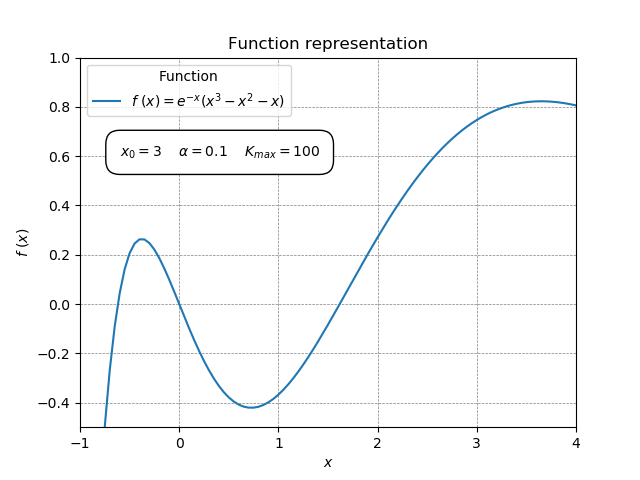
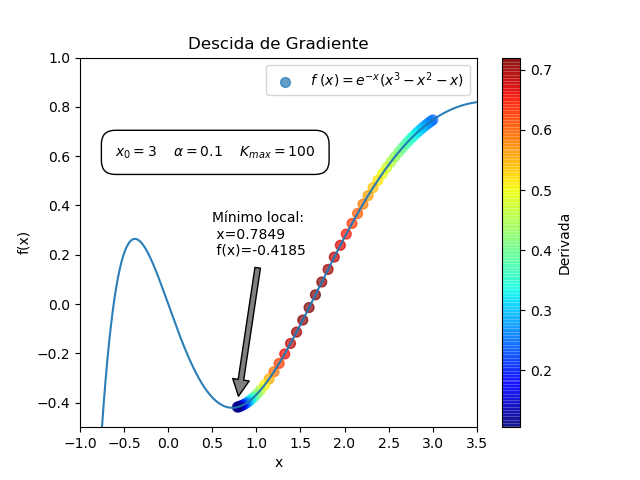
4a e 4b concluida

diff --git a/primeiro_versao wesley.py b/primeiro_versao wesley.py
@@ -1,0 +1,214 @@
+from traceback import print_list
+import numpy as np
+from src.problem.problem_interface import ProblemInterface
+from sympy import diff, Symbol, true
+from sympy import lambdify
+from sympy import sin, cos, exp
+import matplotlib.pyplot as plt
+import pandas as pd
+from numpy import arange
+from numpy import meshgrid
+from mpl_toolkits.mplot3d import Axes3D
+
+
+
+
+
+
+# import matplotlib.pyplot as plt
+import math
+
+
+
+class PrimeiroTrabalho(ProblemInterface):
+
+    def __init__(self, fname):
+        # load dataset
+        """self.filename = fname
+        with open(fname, "r") as f:
+            lines = f.readlines()
+
+        lines = [l.rstrip().rsplit() for l in lines]
+
+        # Convert the list of list into a numpy matrix of integers.
+        lines = np.array(lines).astype(np.int)
+        self.x = lines[:, :-1]
+        self.y = lines[:, -1:]"""
+        pass
+
+    def task1(self, x0, alfa, h):
+        xk = x0
+        for k in range(1):
+            fx = self.function_exercise(xk)
+            df = self.dfx(xk, h)
+            xk = xk + (alfa * -df)
+        return xk
+
+    def function_exercise(self, xk):
+        fx = np.exp(xk) * xk * ((xk ** 2) - xk - 1)
+        return fx
+
+    def dfx(self, x, h):
+        """ Aproximação da derivada pelo método de diferenças finitas """
+        df = (self.function_exercise(x + h) - self.function_exercise(x))/h
+        return df
+
+
+    def task2(self, x0, alfa):
+        x = Symbol('x')
+        f = exp(-x) * x * ((x ** 2) - x - 1)
+        difx = diff(f, x)
+        # Apresenta a função derivada
+        """Aqui já se trata da função derivada"""
+        # Converte de uma função simbólica para uma função numérica
+        lam_f = lambdify(x, difx)#AKI É O VETOR DE GRADIENTE
+        # UTILIZANDO A DERIVADA NA MÃO
+        # lam_f = lambdify(x, ((x**3)*exp(x)+2*(x**2)*exp(x)-3*x*exp(x)-exp(x)))
+        # Resolve a função para um dado valor de x
+        dfdx = lam_f(x0)
+        xk = x0 - (alfa * dfdx)  # x_(k+1) <-  xk - alfa * f'(xk)
+        return xk, dfdx
+
+
+    def task3(self, x0, alfa, gmin, kmax):
+        xk = x0
+        k = 0
+        novo=[]
+        dfdx=0
+        xk, dfdx = self.task2(xk, gmin)
+        xk=x0
+        while ((k < kmax) and (math.fabs(dfdx) > gmin)):
+            f = math.exp(-xk) * xk * ((xk ** 2) - xk - 1)
+            novo.append([dfdx,xk,f])
+            xk, dfdx = self.task2(xk, alfa)
+            k += 1
+        newnovo = pd.DataFrame(novo, index=None, columns=['Derivada:','X:','Y:'])
+        print(newnovo.to_string())
+        newnovo.plot(x ='X:', y='Y:',c='Derivada:', kind = 'scatter',cmap="jet", s=50,marker= 'o', label='Gradiente', alpha=0.7)
+        self.plot()
+        ###############################
+        plt.suptitle('Exercício 03', fontsize=14, fontweight='bold')
+        plt.title('Gradiente Decedente')
+        plt.xlabel('Movimentação do Gradiente no eixo X')
+        plt.ylabel('Eixo Y')
+        plt.text(-0.5, 0.6, 'Quanto maior o Valor da Derivada, maior é o passo.\n kmax = 100, porém foi até 49 pois \n o critério de gimin=0.1 ocorreu primeiro', style='italic',
+        bbox={'facecolor': 'white', 'edgecolor': 'k', 'boxstyle': 'round, pad=1'})
+        plt.text(-0.5, 0.8, r'$f ~ (x) = e^{-x} (x^3- x^2 - x)$', fontsize=12)
+        plt.annotate('ótimo local:\n X='+str(round(newnovo['X:'][49],4))+'\n Y='+str(round(newnovo['Y:'][49],4)), xy=(newnovo['X:'][49], -0.404), xytext=(0.5, 0.2),
+            arrowprops=dict(facecolor='black', shrink=0.05))
+        ###############################
+        plt.show()
+        print("========= AOS COLEGAS ==============")
+        print("Se colocar o Alpha(txa de aprendizado em 0.9 ele leva 6 passos para achar o melhor,\n mas como sabe qual alpha é o certo?")
+        print("====================================")
+        return print('O valor que minimiza a função f(x) é x=', newnovo['X:'][49])
+
+
+    def derivx1(self,x0,alfa):
+        x1 = Symbol('x1')
+        x2=Symbol('x2')
+        #Encontrando o valor de x1 e dx1
+        f = (4-2.1*x1**2+x1**(3/3))*x1**3+x1*x0#AKI EU COLOCO O X0 COMO VALOR PARA X2
+        dfdx1 = diff(f, x1)
+        lam_f = lambdify(x1, dfdx1)#AKI É O VETOR DE GRADIENTE
+        dfdx1 = lam_f(x0)
+        # x1k = x0 - (alfa * dfdx1)
+       #Encontrando o valor de x2 e dx2
+        f = x0*x2+(-4+4*x2**2)*x2**2#AKI EU COLOCO O X0 COMO VALOR PARA X1
+        dfdx2 = diff(f, x2)
+        lam_f = lambdify(x2, dfdx2)#AKI É O VETOR DE GRADIENTE
+        dfdx2 = lam_f(x0)
+        # x2k = x0 - (alfa * dfdx2)
+        grad=([dfdx1],[dfdx2])
+        print(grad)
+        print(np.dot(grad,-alfa),"aaki")
+        # print(x1k,"<<>>",dfdx1,"------",x2k,"<<>>",dfdx2)
+        pass
+
+
+    def derivx2(self):
+        x1 = Symbol('x1')
+        x2=Symbol('x2')
+        f = (4-2.1*x1**2+x1**(3/3))*x1**3+x1*x2+(-4+4*x2**2)*x2**2
+        return diff(f, x2)
+    def t1(self):
+        x1 = Symbol('x1')
+        x2=Symbol('x2')
+        f = (4-2.1*x1**2+x1**(3/3))*x1**3+x1*x2+(-4+4*x2**2)*x2**2
+        return diff(f, x1)
+    def t2(self):
+        x1 = Symbol('x1')
+        x2=Symbol('x2')
+        f = (4-2.1*x1**2+x1**(3/3))*x1**3+x1*x2+(-4+4*x2**2)*x2**2
+        return diff(f, x2)
+    
+    def task4_a(self,x0, alfa,gmin, kmax):
+        print("vetor do Gradiente de 2 dimensões função do trabalho:(4-2.1*x1**2+x1**3/3)*x1**3+x1*x2+(-4+4*x2**2)*x2**2")
+        # print([[self.derivx1()],[self.derivx2()]])
+        # ##Início da decida7
+        x1k = x0
+        x2k=x0
+        k = 0
+        derivada=[self.t1()],[self.t2()]
+        novo=[]
+        dfdx=0
+        while (k < kmax):
+          self.derivx1(1.2,alfa)
+      
+            # f = (4-2.1*x1k**2+x1k**(3/3))*x1k**3+x1k*x2k+(-4+4*x2k**2)*x2k**2
+            # novo.append([dfdx,x1k,x2k,f])
+            # x1k, dfdx = self.task2(x1k, alfa)
+
+
+          k += 1
+        # ##########FIM
+        self.graf3d()
+        return print('task4_a')
+
+    # (b) Use o gradiente explícito no algoritmo da descida de gradiente
+    def task4_b(self):
+        # TODO
+        return print('task4_b')
+
+    # (c) Desenhe a trajetória de x k no plano (x 1 , x 2 ),
+    # e o valor da função correspondente de f(x1 , x2) no gráfico 3-D.
+    def task4_c(self):
+        # TODO
+        return print('task4_c')
+
+    def plot(self):
+        y = []
+        xaxis = []
+        for x in np.arange(-4.0, 4.0, 0.01):
+            f = exp(-x) * x * ((x ** 2) - x - 1)
+            y.append(f)
+            xaxis.append(x)
+        plt.plot(xaxis, y,alpha=0.5)
+        plt.xlim(-1, 3.5)
+        plt.ylim(-0.5, 1)
+        # plt.show()
+        pass
+
+
+    def graf3d(self):
+        min, max = -1.0, 1.0
+        xaxis = arange(min, max, 0.01)
+        yaxis = arange(min, max, 0.01)
+        x1, x2 = meshgrid(xaxis, yaxis)
+        resul = (4-2.1*x1**2+x1**(3/3))*x1**3+x1*x2+(-4+4*x2**2)*x2**2
+        figure = plt.figure()
+        axis = figure.gca(projection='3d')
+        axis.plot_surface(x1, x2, resul, cmap='jet' ,linewidth=0, antialiased=False)
+        plt.suptitle('Exercício 0', fontsize=14, fontweight='bold')
+        plt.title('Gradiente Decedente Multivariado')
+        plt.xlabel('Eixo X1')
+        plt.ylabel('Eixo x2')
+        axis.set_zlabel('Eixo Y')
+        plt.contourf(x1, x2, resul, levels=50, cmap='jet',zdir="z", offset=-3)
+        plt.show()
+    pass
+
+    def plot_bestfit(self):
+        # TODO
+        pass
+

diff --git a/src/problem/primeiro_trabalho.py b/src/problem/primeiro_trabalho.py
@@ -11,7 +11,6 @@ from mpl_toolkits import mplot3d
 
 
 
-
 class PrimeiroTrabalho(ProblemInterface):
 
     def __init__(self, fname):
@@ -72,7 +71,7 @@ class PrimeiroTrabalho(ProblemInterface):
             xk, dfdx = self.task2(xk, alfa)
             k += 1
 
-        self.plot(database=novo)
+        #self.plot()
         self.plot_3(database=novo)
         min_pos = flist.index(min(flist))
         messenger = "Tarefa 3.a \nThe minimum value found for the function f(x) is y= %0.4f from x= %0.4f"
@@ -122,7 +121,12 @@ class PrimeiroTrabalho(ProblemInterface):
     # (c) Desenhe a trajetória de x k no plano (x 1 , x 2 ),
     # e o valor da função correspondente de f(x1 , x2) no gráfico 3-D.
     def task4_c(self):
-        # self.plot_question4()
+
+
+
+
+        #self.plot_question4()
+        self.graf3d()
         return print('task4_c')
 
     def plot_question4(self):
@@ -145,38 +149,67 @@ class PrimeiroTrabalho(ProblemInterface):
         plt.show()
         pass
 
-    def plot(self, database):
+    def plot(self):
         """Generate the points from the function"""
         y, xaxis = [], []
-        for x in np.arange(-10.0, 40.0, 0.05):
+
+        for x in np.arange(-4.0, 4.0, 0.01):
             f = exp(-x) * x * ((x ** 2) - x - 1)
             y.append(f)
             xaxis.append(x)
 
-        plt.subplots()
-        plt.plot(xaxis, y, label= r'$f ~ (x) = e^{-x} (x^3- x^2 - x)$')
-        plt.xlabel(r'$x$')
-        plt.ylabel(r'$f ~ (x)$')
-
-        plt.grid(True, color='gray', linestyle = '--', linewidth = 0.5)
-        plt.legend(title='Function')
-        plt.text(-0.6, 0.6,  r'$x_0 = 3$    $\alpha = 0.1$    $K_{max} = 100$',
-                 bbox={'facecolor': 'white', 'edgecolor': 'k', 'boxstyle': 'round, pad=1'})
-        plt.title('Function representation')
-
-        """ limit of x and y axis"""
-        plt.xlim(-1, 4)
+        plt.plot(xaxis, y, alpha=0.95)
+        plt.xlim(-1, 3.5)
         plt.ylim(-0.5, 1)
-
-        plt.savefig("Image/first_function.png")
-        plt.show()
-        plt.close()
         pass
 
     def plot_3(self, database):
-        newnovo = pd.DataFrame(database,index=None,columns=['Derivative','X','$f~(x)$'])
-        print(newnovo)
-        newnovo.plot(x ='X', y='$f~(x)$',c='Derivative', kind = 'scatter',colormap="Blues")
-        plt.title("Gradient descent")
+
+        newnovo = pd.DataFrame(database, index=None, columns=['Derivada', 'X', 'f(x)'])
+        newnovo.plot(x='X', y='f(x)', c='Derivada', kind='scatter', cmap="jet", s=50, marker='o',
+                     alpha=0.7, label= r'$f ~ (x) = e^{-x} (x^3- x^2 - x)$')
+
+        """Gera os pontos da função para depois acrescentar sobre a curva os pontos, da derivada
+        da função """
+        self.plot()
+
+        plt.title('Descida de Gradiente')
+        plt.xlabel('x')
+        plt.ylabel('f(x)')
+
+        """
+        Vale a pena por essa informação no relatório:
+        
+        plt.text(-0.5, 0.6, 'Quanto maior o Valor da Derivada, maior é o passo.\n kmax = 100, porém foi até 49 pois \n o critério de gimin=0.1 ocorreu primeiro',
+                 style='italic',
+                 bbox={'facecolor': 'white', 'edgecolor': 'k', 'boxstyle': 'round, pad=1'})
+        """
+        plt.text(-0.6, 0.6, r'$x_0 = 3$    $\alpha = 0.1$    $K_{max} = 100$',
+                 bbox={'facecolor': 'white', 'edgecolor': 'k', 'boxstyle': 'round, pad=1'})
+
+        plt.annotate(
+            'Mínimo local:\n x=' + str(round(newnovo['X'][49], 4)) + '\n f(x)=' + str(round(newnovo['f(x)'][49], 4)),
+            xy=(newnovo['X'][49], -0.404), xytext=(0.5, 0.2),
+            arrowprops=dict(facecolor='gray', shrink=0.05))
+
+        plt.savefig("Image/first_function.png")
         plt.show()
         pass
+
+    def graf3d(self):
+        min, max = -1.0, 1.0
+        xaxis = np.arange(min, max, 0.01)
+        yaxis = np.arange(min, max, 0.01)
+        x1, x2 = np.meshgrid(xaxis, yaxis)
+        resul = (4-2.1*x1**2+x1**(3/3))*x1**3+x1*x2+(-4+4*x2**2)*x2**2
+        figure = plt.figure()
+        axis = figure.gca(projection='3d')
+        axis.plot_surface(x1, x2, resul, cmap='jet' ,linewidth=0, antialiased=False)
+        plt.suptitle('Exercício 0', fontsize=14, fontweight='bold')
+        plt.title('Gradiente Decedente Multivariado')
+        plt.xlabel('X1')
+        plt.ylabel('X2')
+        axis.set_zlabel('f(x1,x2)')
+        plt.contourf(x1, x2, resul, levels=50, cmap='jet',zdir="z", offset=-3)
+        plt.show()
+    pass

diff --git a/src/algorithm/gradient_descent.py b/src/algorithm/gradient_descent.py
@@ -36,14 +36,13 @@ def gradient_descent(problem):
         x_0 --> x_1 --> x_2 --> x_3 --> x_4 --> x_5 ...
         e f(x_0) --> f(x_1) --> f(x_2) --> f(x_3) --> f(x_4) --> f(x_5) ...
         e f'(x_0) --> f'(x_1) --> f'(x_2) --> f'(x_3) --> f'(x_4) --> f'(x_5) ..."""
-    #problem.task3(x0=3, alfa=0.1, gmin=0.1, kmax=100)
+    problem.task3(x0=3, alfa=0.1, gmin=0.1, kmax=100)
 
 
     """
         Plot the graph representing the function in question 1 and 2.
         It was not requested by the activity, but I believe it is interesting
          to know a little more about the feature of the function"""
-    #problem.plot()
 
     """ 4. Determine pelo menos dois mínimos da função bidimensional:
     f(x1, x2) = (4 - 2.1 * x1**2 + x1**3 / 3 ) * x1**3 + x1 * x2 + (-4 + 4 * x2**2) * x2**2
@@ -54,7 +53,6 @@ def gradient_descent(problem):
     print("Dada a função: f(x1, x2) = (4 - 2.1 * x1**2 + x1**3 / 3 ) * x1**3 + x1 * x2 + (-4 + 4 * x2**2) * x2**2\n")
 
 
-
     point, h = [2, 2], 0.01
     dfdx1, dfdx2 = problem.task4_a(Xk=point, h=h)
     print("Tarefa 4a: Aproximado o gradiente pelo método de diferenças finitas.\n"
@@ -62,13 +60,12 @@ def gradient_descent(problem):
     print('')
 
     # (b) Use o gradiente explícito no algoritmo da descida de gradiente
-    dfdx1, dfdx2, difx1, difx2 = problem.task4_b(w1=2, w2=2)
+
+    dfdx1, dfdx2, difx1, difx2 = problem.task4_b(w1=point[0], w2=point[1])
 
     print("Tarefa 4b: O gradiente explícito da função é dado por:\n[%s       %s]\n"
           "No ponto (2, 2) é: [%0.3f  %0.3f]." % (difx1, difx2, dfdx1, dfdx2))
     print('')
-
-
 
     # (c) Desenhe a trajetória de x k no plano (x 1 , x 2 ),
     # e o valor da função correspondente de f(x1 , x2) no gráfico 3-D.
